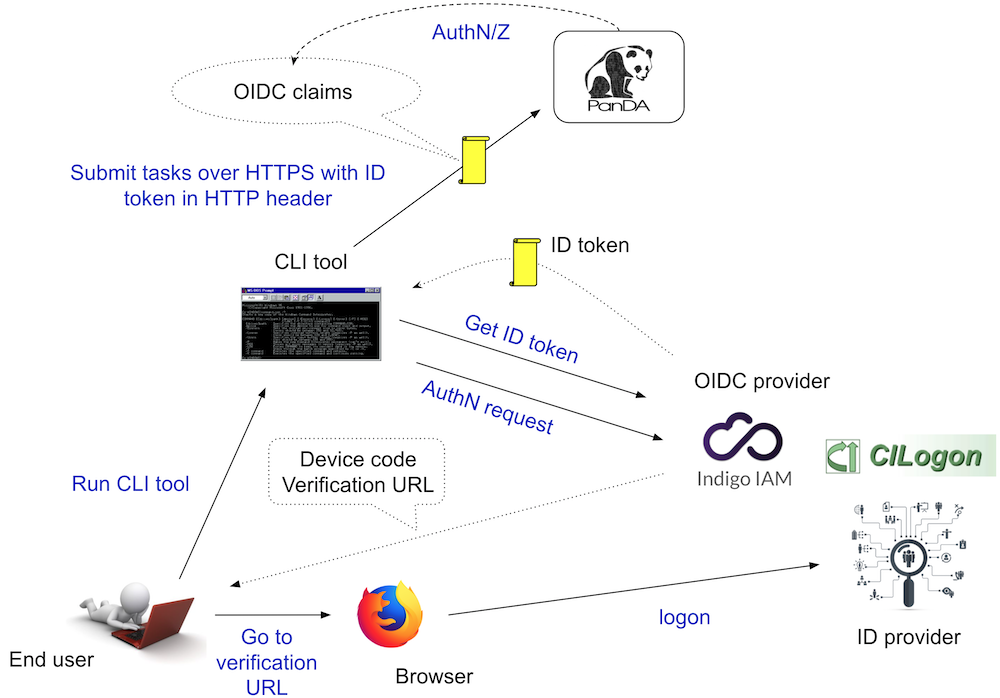
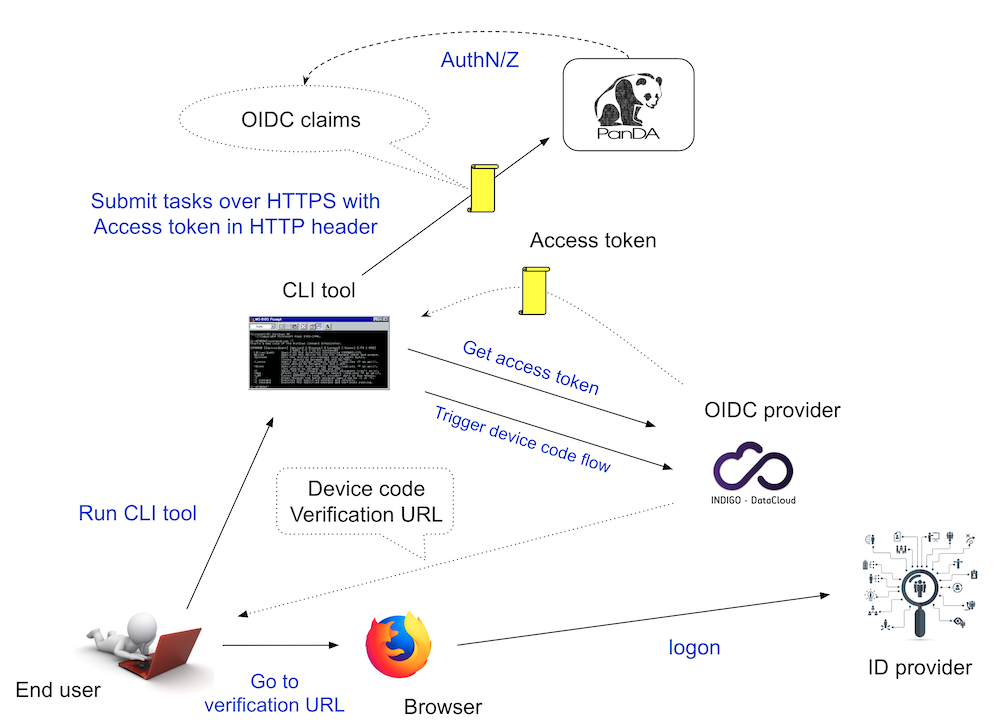
Refine IAM documentation for clarity and accuracy in identity claims and authentication flow

diff --git a/docs/source/architecture/iam.rst b/docs/source/architecture/iam.rst
@@ -10,26 +10,24 @@ PanDA IAM is consist of
 
 * `Indigo IAM <https://indigo-iam.github.io/docs/v/current/>`_
 
-* `CILogon <https://cilogon.org/>`_
-
 * `Identity providers <https://cilogon.org/idplist/>`_
 
 Indigo IAM is an account and group membership management service to define virtual organizations (VOs) and groups,
-to add/remove users to/from VOs and groups, and issue access tokens (including identity claims, or ID tokens otherwise) once users are authenticated.
-CILogon is a federated ID broker to delegate authentication to ID providers such as CERN, BNL IT/SDCC, KIT,
-Google, ...
+to add/remove users to/from VOs and groups, and to issue access tokens and ID tokens once users are authenticated
+with identity providers such as CERN, BNL IT/SDCC, KIT, Google, and others.
 
 .. figure:: images/iam.png
 
 The figure above shows the procedure of end-user authentication and authorization, where the device code flow is used
 to allow users to run command-line tools.
 First, the user invokes a command-line tool which checks if a valid token is locally available.
-If not, the command-line tool sends an authentication request to Indigo IAM on behalf of the user and retrieves
+If not, the command-line tool triggers the device code flow to Indigo IAM on behalf of the user and retrieves
 a verification URL. Then the user opens a web browser to go to the verification URL, and is eventually
-redirected to his/her own ID provider through CILogon. Once the user successfully logs on, a couple
-of tokens are exchanged between CILogon and Indigo IAM, and an access token is issued. The command-line
+redirected to his/her own ID provider. Once the user successfully logs on, a couple
+of tokens are exchanged between the ID provider and Indigo IAM, and an access token is issued. The command-line
 tool gets the access token and put it to the HTTP request header when accessing the PanDA server.
-The PanDA server decodes the token and authorizes the user based on OIDC claims such as name, username, and groups.
+The PanDA server decodes the access token and authorizes the user based on OIDC claims such as given_name, family_name, preferred_name, and groups.
+When those identity claims are not available in the access token, the ID token can also be used.
 
 |br|
 
